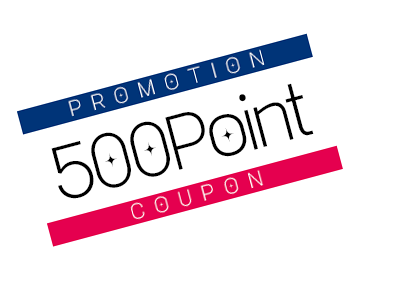
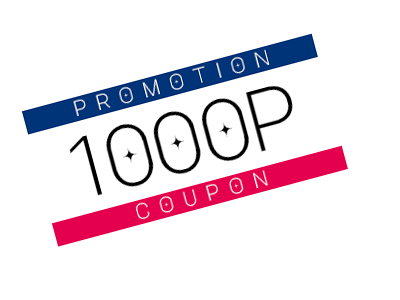
230911

diff --git a/src/Component/Board/Detail.js b/src/Component/Board/Detail.js
@@ -3,11 +3,15 @@ import { useParams, useNavigate, useLocation } from "react-router-dom";
 import { useSelector } from "react-redux";
 
 import axios from "axios";
+import queryString from "query-string";
+
 import Loading from "../Layout/Loading";
 function Detail() {
   const user = useSelector(state => state.user);
   const navi = useNavigate();
   const location = useLocation();
+  const parsed = queryString.parse(location.search);
+  const boardId = parsed.boardId || "B01";
   const { pid } = useParams();
   const [detail, setDetail] = useState({});
   const [loading, setLoading] = useState(true);
@@ -20,7 +24,6 @@ function Detail() {
       alert("잘못된 접근입니다");
       navi("/");
     }
-    console.log(detail);
     getDetail(boardId);
     //eslint-disable-next-line
   }, []);
@@ -37,7 +40,7 @@ function Detail() {
         },
       })
       .then(res => {
-        console.log(res);
+        console.log(res.data.post);
         res.data.code === "C000" && setDetail(res.data.post);
         setLoading(false);
       })
@@ -49,7 +52,59 @@ function Detail() {
   return (
     <>
       {loading ? <Loading /> : null}
+      {}
       <h2 className="text-center text-3xl py-2 font-neoheavy">면접상세내용</h2>
+      <div className="container mx-auto grid grid-cols-1 gap-1">
+        {boardId === "B01" ? (
+          <>
+            <div className="w-1/2 mx-auto grid grid-cols-4 border">
+              <div className="bg-sky-500 p-2 text-white text-center">
+                면접날짜
+              </div>
+              <div className="bg-gray-50 p-2 col-span-3">{detail.intvDate}</div>
+            </div>
+            <div className="w-1/2 mx-auto grid grid-cols-4 border">
+              <div className="bg-sky-500 p-2 text-white text-center">
+                면접시간
+              </div>
+              <div className="bg-gray-50 p-2 col-span-3">
+                {detail.intvTime}시 {detail.intvMin}분
+              </div>
+            </div>
+            <div className="w-1/2 mx-auto grid grid-cols-4 border">
+              <div className="bg-sky-500 p-2 text-white text-center">
+                포인트 지급여부
+              </div>
+              <div className="bg-gray-50 p-2 col-span-3">
+                {detail.status === "S" ? (
+                  <span className="text-blue-500">지급대기</span>
+                ) : detail.status === "N" ? (
+                  <span className="text-red-500">지급불가</span>
+                ) : detail.status === "Y" ? (
+                  <span className="text-green-500">지급완료</span>
+                ) : (
+                  "오류"
+                )}
+              </div>
+            </div>
+            {detail.status !== "S" && (
+              <div className="w-1/2 mx-auto grid grid-cols-4 border">
+                <div className="bg-sky-500 p-2 text-white text-center">
+                  {detail.status === "Y" ? "지급 포인트" : "지급 불가 사유"}
+                </div>
+                <div className="bg-gray-50 p-2 col-span-3">{detail.result}</div>
+              </div>
+            )}
+          </>
+        ) : (
+          "현재 다른 게시판은 준비중 입니다."
+        )}
+      </div>
+      <div className="container mx-auto text-center mt-2">
+        <button className="p-2 w-60 mx-auto bg-green-500 text-white rounded">
+          수정하기
+        </button>
+      </div>
     </>
   );
 }

diff --git a/src/Component/User/Login.js b/src/Component/User/Login.js
@@ -6,6 +6,8 @@ import axios from "axios";
 import { useSelector, useDispatch } from "react-redux";
 import { loginUser } from "../../Reducer/userSlice";
 
+import { RiKakaoTalkFill } from "react-icons/ri";
+
 function Login() {
   const inputRef = useRef();
   let navi = useNavigate();
@@ -92,8 +94,8 @@ function Login() {
         }
       })
       .catch(e => {
-        console.log(e);
-        alert("로그인에 실패했습니다\n아이디 또는 비밀번호를 확인해 주세요");
+        setErrMessage("로그인에 실패했습니다");
+        setIsErr(true);
       });
   };
 
@@ -269,10 +271,11 @@ function Login() {
         </div>
         <div className="w-full">
           <button
-            className="transition duration-100 w-full bg-yellow-300 hover:bg-yellow-500 p-2 text-black rounded hover:animate-wiggle"
+            className="transition duration-100 w-full kakaobtn p-2 text-black rounded hover:animate-wiggle"
             onClick={kakaoLogin}
           >
-            카카오 간편로그인
+            <RiKakaoTalkFill size={28} className="inline-block" /> 카카오
+            간편로그인
           </button>
         </div>
       </div>

diff --git a/src/Component/User/Promo.js b/src/Component/User/Promo.js
@@ -110,7 +110,7 @@ function Promo() {
               />
               <div className="w-full text-center text-xl font-neoextra">
                 지금 가입하면{" "}
-                <span className="text-rose-500 font-bold">500p</span> 무료지급!
+                <span className="text-rose-500 font-bold">1000p</span> 무료지급!
               </div>
               <div className="w-full mt-2">
                 <button
@@ -149,7 +149,7 @@ function Promo() {
             <div className="bg-white p-2 mt-2 rounded">
               <div className="w-full text-center text-xl font-neoextra bg-white p-2">
                 지금 가입하면{" "}
-                <span className="text-rose-500 font-bold">500p</span> 무료지급!
+                <span className="text-rose-500 font-bold">1000p</span> 무료지급!
               </div>
               <div className="w-full my-2">
                 <button

diff --git a/src/Component/User/UserSection.js b/src/Component/User/UserSection.js
@@ -4,12 +4,13 @@ import UserInformation from "./UserInfomation";
 
 function UserSection() {
   return (
-    <div className="hidden xl:hidden grid-cols-5 gap-3 py-3">
-      <div className="col-span-3 h-24 bg-blue-500 text-white p-2">
-        가입프로모션
+    <div className="grid grid-cols-1 xl:grid-cols-4 gap-3 py-3">
+      <div className="h-24 bg-blue-500 text-white p-2">가입프로모션</div>
+      <div className="bg-blue-500 text-white p-2">
+        <Link to="/board/write?boardId=B01">포인트신청</Link>
       </div>
       <div className="bg-blue-500 text-white p-2">
-        <Link to="/board/write?boardId=B02">포인트신청</Link>
+        <Link to="/board/list?boardId=B01">포인트신청 내역</Link>
       </div>
       <div className="border p-2">
         <UserInformation />

diff --git a/src/setupProxy.js b/src/setupProxy.js
@@ -3,8 +3,8 @@ module.exports = function (app) {
   app.use(
     "/api",
     createProxyMiddleware({
-      target: "http://inssain.com", //AWS 프록시 (안쓰면 //로 주석처리)
-      //target: "http://192.168.0.56:8080", //로컬 프록시 (안쓰면 //로 주석처리)
+      //target: "http://inssain.com", //AWS 프록시 (안쓰면 //로 주석처리)
+      target: "http://192.168.0.56:8080", //로컬 프록시 (안쓰면 //로 주석처리)
       changeOrigin: true,
     })
   );

diff --git a/src/Component/Board/List.js b/src/Component/Board/List.js
@@ -65,7 +65,7 @@ function List() {
                       key={idx}
                       className="hover:cursor-pointer hover:text-rose-500"
                       onClick={e =>
-                        navi(`/board/detail/${doc.postId}`, {
+                        navi(`/board/detail/${doc.postId}?boardId=${boardId}`, {
                           state: {
                             boardId: boardId,
                             token: user.accessToken,

diff --git a/src/App.js b/src/App.js
@@ -92,7 +92,7 @@ function App() {
             <Route path="write/:pid?" element={<BoardWrite />} />
             <Route path="detail/:pid?" element={<BoardDetail />} />
           </Route>
-          <Route path="/mok" element={<Mok />}>
+          <Route path="/mokcert" element={<Mok />}>
             <Route exact path="" element={<MokStdRequest />} />
             <Route exact path="redirect" element={<MokStdRedirect />} />
           </Route>

diff --git a/src/Component/User/Mok/mok_react_index.js b/src/Component/User/Mok/mok_react_index.js
@@ -27,9 +27,6 @@ class moK_react_index extends Component {
     let domainName = parts[parts.length - 2]; // 'albagift'
     let domainExtension = parts[parts.length - 1]; // 'com'
 
-    console.log(domain);
-    console.log(domainName);
-    console.log(domainExtension);
     let fullDomain = `https://${domainName}.${domainExtension}/mok/mok_std_request`;
     console.log(fullDomain);
     window.MOBILEOK.process(fullDomain, "WB", "result");

diff --git a/src/index.css b/src/index.css
@@ -222,3 +222,11 @@ div.footer-top {
 .loading-spin {
   z-index:100000;
 }
+
+.kakaobtn {
+  background-color:#fee500;
+}
+
+.kakaobtn:hover {
+  background-color:#e5cf00;
+}

diff --git a/src/Component/Layout/UserInfo.js b/src/Component/Layout/UserInfo.js
@@ -24,7 +24,6 @@ function UserInfo() {
         setIsAdmin(true);
       }
     }
-
     //eslint-disable-next-line
   }, [location]);
 
